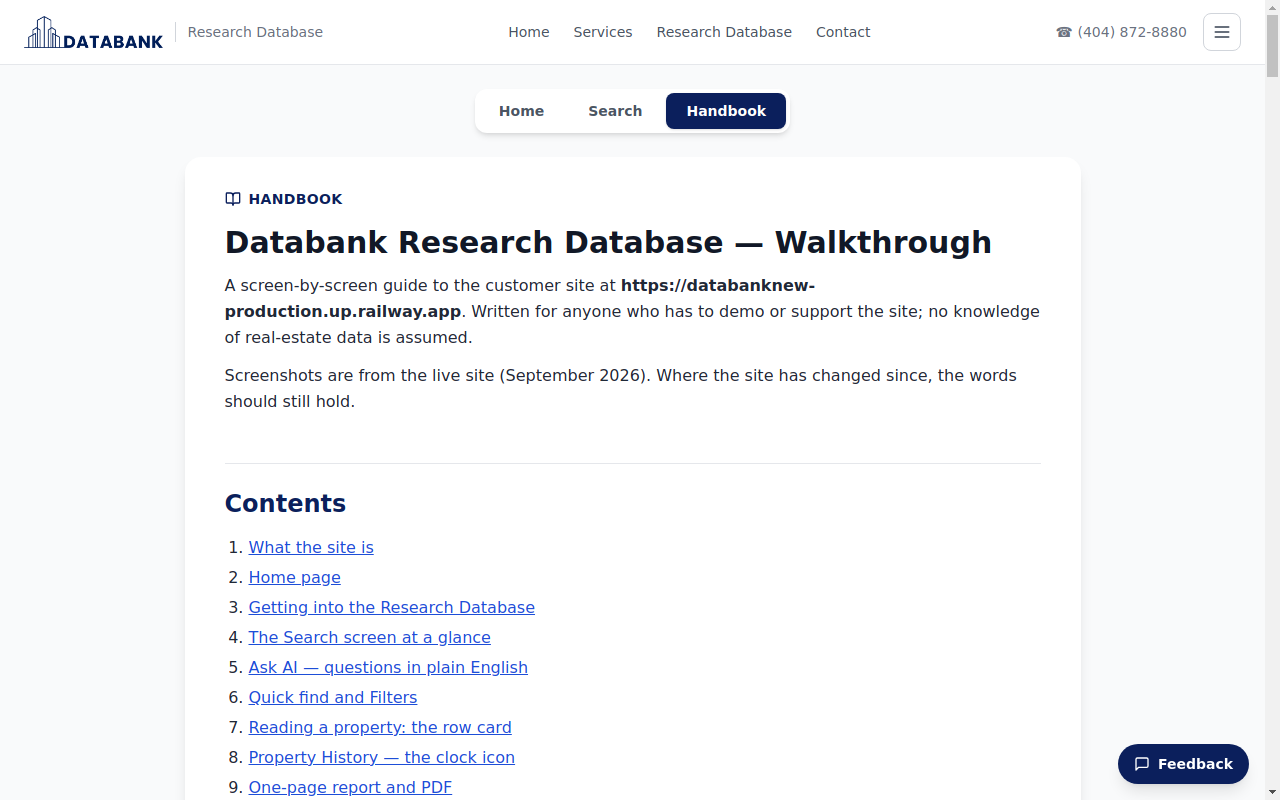
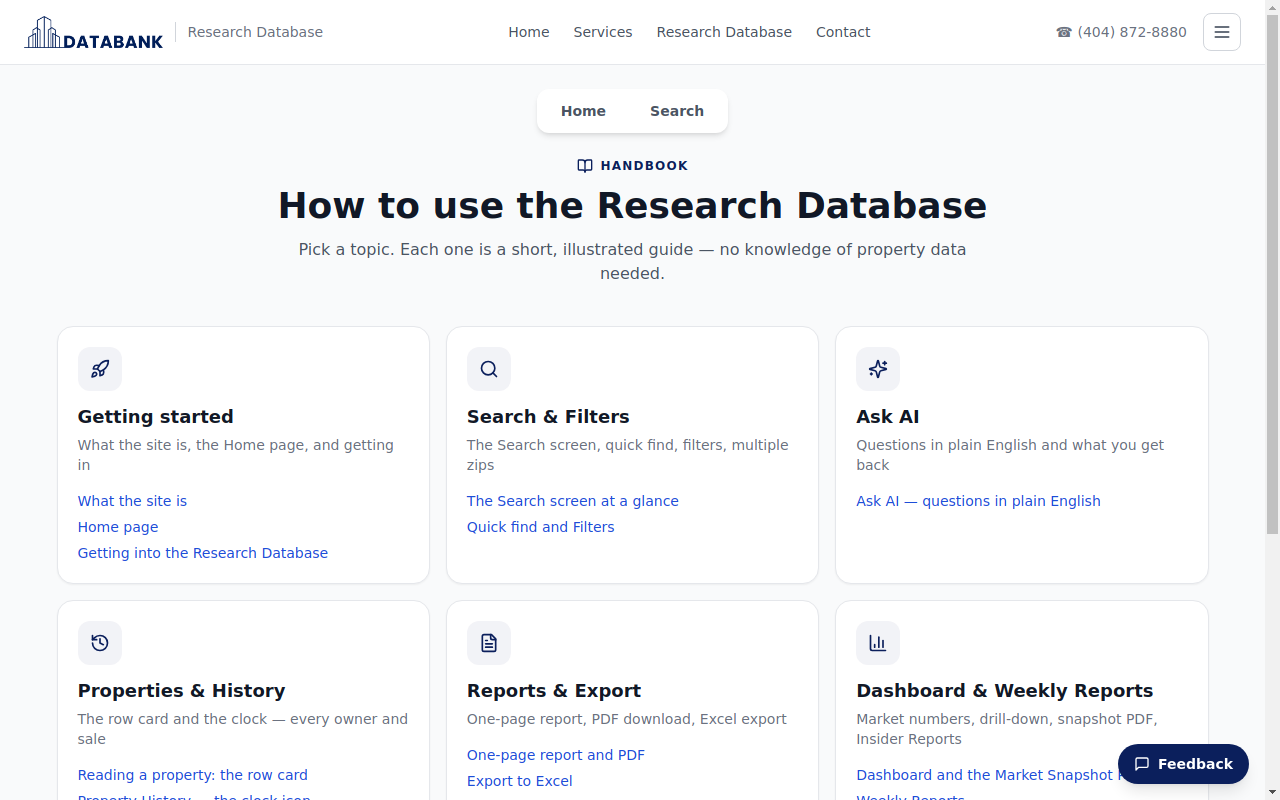
Handbook: topic cards hub + one-topic-at-a-time view with tabs, sidebar and prev/next; menu-only entry

diff --git a/frontend/src/Help.tsx b/frontend/src/Help.tsx
@@ -1,5 +1,5 @@
-import { useEffect, useState, type ReactNode } from 'react';
-import { BookOpen, Loader2 } from 'lucide-react';
+import { useEffect, useMemo, useState, type ReactNode } from 'react';
+import { BookOpen, Loader2, Rocket, Search, Sparkles, History, FileText, BarChart3, Settings, Presentation, HelpCircle, ChevronLeft, ChevronRight, ArrowLeft, type LucideIcon } from 'lucide-react';
 
 // Renders docs/walkthrough.md (served from /help/ via the public folder) as the
 // site's handbook. Small purpose-built markdown subset: headings, paragraphs,
@@ -51,7 +51,7 @@ function render(md: string): ReactNode[] {
     if (!s || s === '---') { i++; continue; }
     if (s.startsWith('# ')) { nodes.push(<h1 key={k++} className="text-3xl font-bold text-gray-900 mb-2">{inline(s.slice(2))}</h1>); i++; continue; }
     if (s.startsWith('## ')) { const t = s.slice(3); nodes.push(<h2 key={k++} id={slug(t)} className="text-2xl font-bold text-[#0b1f5c] mt-12 mb-4 pt-6 border-t border-gray-200 scroll-mt-20">{inline(t)}</h2>); i++; continue; }
-    if (s.startsWith('### ')) { const t = s.slice(4); nodes.push(<h3 key={k++} id={slug(t)} className="text-lg font-semibold text-gray-800 mt-8 mb-3 scroll-mt-20">{inline(t)}</h3>); i++; continue; }
+    if (s.startsWith('### ')) { const t = s.slice(4); nodes.push(<h3 key={k++} id={slug(t)} className="text-lg font-semibold text-gray-800 mt-8 mb-3 scroll-mt-40">{inline(t)}</h3>); i++; continue; }
     if (s.startsWith('![')) { nodes.push(img(s)); i++; continue; }
     if (s.startsWith('> ')) { nodes.push(<blockquote key={k++} className="my-4 border-l-4 border-[#0b1f5c] bg-blue-50 px-4 py-3 text-gray-800 italic">{inline(s.slice(2))}</blockquote>); i++; continue; }
     if (s.startsWith('<details')) {
@@ -112,9 +112,48 @@ function render(md: string): ReactNode[] {
   return nodes;
 }
 
-export function Help() {
+
+interface Section { num: number; title: string; slug: string; subs: { title: string; slug: string }[]; md: string }
+
+interface Topic { id: string; title: string; blurb: string; icon: LucideIcon; nums: number[] }
+
+const TOPICS: Topic[] = [
+  { id: 'getting-started', title: 'Getting started', blurb: 'What the site is, the Home page, and getting in', icon: Rocket, nums: [1, 2, 3] },
+  { id: 'search', title: 'Search & Filters', blurb: 'The Search screen, quick find, filters, multiple zips', icon: Search, nums: [4, 6] },
+  { id: 'ask-ai', title: 'Ask AI', blurb: 'Questions in plain English and what you get back', icon: Sparkles, nums: [5] },
+  { id: 'properties', title: 'Properties & History', blurb: 'The row card and the clock — every owner and sale', icon: History, nums: [7, 8] },
+  { id: 'reports', title: 'Reports & Export', blurb: 'One-page report, PDF download, Excel export', icon: FileText, nums: [9, 10] },
+  { id: 'dashboard', title: 'Dashboard & Weekly Reports', blurb: 'Market numbers, drill-down, snapshot PDF, Insider Reports', icon: BarChart3, nums: [11, 12] },
+  { id: 'admin', title: 'Feedback, Menu & Admin', blurb: 'Feedback button, ☰ menu, admin tools, photos, this handbook', icon: Settings, nums: [13, 14, 18] },
+  { id: 'demo', title: 'Demo guide', blurb: '10-minute script and what to steer away from', icon: Presentation, nums: [15, 16] },
+  { id: 'faq', title: 'FAQ', blurb: 'Short answers to the questions customers ask', icon: HelpCircle, nums: [17] },
+];
+
+function parseSections(md: string): Section[] {
+  const out: Section[] = [];
+  let cur: Section | null = null;
+  for (const line of md.split('\n')) {
+    const h2 = /^## (\d+)\. (.*)$/.exec(line);
+    if (h2) {
+      cur = { num: Number(h2[1]), title: h2[2], slug: slug(`${h2[1]}. ${h2[2]}`), subs: [], md: '' };
+      out.push(cur);
+      continue;
+    }
+    if (!cur) continue;
+    const h3 = /^### (.*)$/.exec(line);
+    if (h3) cur.subs.push({ title: h3[1].replace(/^"|"$/g, ''), slug: slug(h3[1]) });
+    cur.md += line + '\n';
+  }
+  return out;
+}
+
+const NAVY = '#0b1f5c';
+
+export function Help({ onExit }: { onExit?: () => void }) {
   const [md, setMd] = useState<string | null>(null);
   const [error, setError] = useState(false);
+  const [topicId, setTopicId] = useState<string | null>(null);
+  const [pendingSlug, setPendingSlug] = useState<string | null>(null);
 
   useEffect(() => {
     fetch(DOC_URL)
@@ -123,20 +162,140 @@ export function Help() {
       .catch(() => setError(true));
   }, []);
 
-  useEffect(() => {
-    if (!md) return;
-    const id = window.location.hash.replace(/^#help\/?/, '');
-    if (id) requestAnimationFrame(() => document.getElementById(id)?.scrollIntoView());
-  }, [md]);
+  const sections = useMemo(() => (md ? parseSections(md) : []), [md]);
+  const topics = useMemo(
+    () => TOPICS.map((t) => ({ ...t, sections: sections.filter((s) => t.nums.includes(s.num)) })).filter((t) => t.sections.length),
+    [sections],
+  );
 
-  return (
-    <div className="max-w-4xl mx-auto bg-white rounded-2xl shadow-lg px-6 sm:px-10 py-8">
-      <div className="flex items-center gap-2 text-sm text-[#0b1f5c] font-semibold uppercase tracking-wide mb-4">
-        <BookOpen className="w-4 h-4" /> Handbook
+  const open = (id: string | null, sectionSlug?: string) => {
+    setTopicId(id);
+    setPendingSlug(sectionSlug ?? null);
+    window.history.replaceState(null, '', id ? `#help/${sectionSlug ?? id}` : '#help');
+    if (!sectionSlug) window.scrollTo({ top: 0 });
+  };
+
+  // Deep link: #help/<topic-id> or #help/<section-slug>
+  useEffect(() => {
+    if (!topics.length) return;
+    const target = window.location.hash.replace(/^#help\/?/, '');
+    if (!target) return;
+    const byId = topics.find((t) => t.id === target);
+    if (byId) { setTopicId(byId.id); return; }
+    const byNum = /^(\d+)-/.exec(target);
+    const t = byNum && topics.find((t) => t.nums.includes(Number(byNum[1])));
+    if (t) { setTopicId(t.id); setPendingSlug(target); }
+  }, [topics]);
+
+  useEffect(() => {
+    if (!pendingSlug || !topicId) return;
+    requestAnimationFrame(() => document.getElementById(pendingSlug)?.scrollIntoView({ behavior: 'smooth' }));
+    setPendingSlug(null);
+  }, [pendingSlug, topicId]);
+
+  if (error) return <div className="max-w-4xl mx-auto bg-white rounded-2xl shadow p-8 text-gray-600">The handbook could not be loaded. Please refresh the page.</div>;
+  if (!md) return <div className="flex items-center justify-center gap-2 text-gray-500 py-20"><Loader2 className="w-4 h-4 animate-spin" /> Loading handbook…</div>;
+
+  const idx = topics.findIndex((t) => t.id === topicId);
+  const topic = idx >= 0 ? topics[idx] : null;
+
+  // ---- Hub: topic cards ----
+  if (!topic) {
+    return (
+      <div className="max-w-6xl mx-auto">
+        <div className="text-center mb-10">
+          <div className="inline-flex items-center gap-2 text-xs font-semibold uppercase tracking-widest text-[#0b1f5c] mb-3">
+            <BookOpen className="w-4 h-4" /> Handbook
+          </div>
+          <h1 className="text-3xl sm:text-4xl font-bold text-gray-900">How to use the Research Database</h1>
+          <p className="mt-3 text-gray-600 max-w-2xl mx-auto">
+            Pick a topic. Each one is a short, illustrated guide — no knowledge of property data needed.
+          </p>
+        </div>
+        <div className="grid gap-4 sm:grid-cols-2 lg:grid-cols-3">
+          {topics.map((t) => (
+            <div key={t.id} className="group bg-white rounded-2xl border border-gray-200 shadow-sm hover:shadow-md hover:border-[#0b1f5c]/40 transition-all p-5 flex flex-col">
+              <button onClick={() => open(t.id)} className="text-left">
+                <div className="w-11 h-11 rounded-xl bg-[#0b1f5c]/5 text-[#0b1f5c] flex items-center justify-center mb-3 group-hover:bg-[#0b1f5c] group-hover:text-white transition-colors">
+                  <t.icon className="w-5 h-5" />
+                </div>
+                <h2 className="text-lg font-bold text-gray-900">{t.title}</h2>
+                <p className="text-sm text-gray-500 mt-1">{t.blurb}</p>
+              </button>
+              <ul className="mt-4 space-y-1.5 text-sm">
+                {t.sections.map((s) => (
+                  <li key={s.slug}>
+                    <button onClick={() => open(t.id, s.slug)} className="text-blue-700 hover:underline text-left">{s.title}</button>
+                  </li>
+                ))}
+              </ul>
+            </div>
+          ))}
+        </div>
       </div>
-      {error && <p className="text-gray-600">The handbook could not be loaded. Please refresh the page.</p>}
-      {!md && !error && <div className="flex items-center gap-2 text-gray-500"><Loader2 className="w-4 h-4 animate-spin" /> Loading…</div>}
-      {md && <article>{render(md)}</article>}
+    );
+  }
+
+  // ---- Topic view: tabs + sidebar + one topic's content ----
+  const prev = idx > 0 ? topics[idx - 1] : null;
+  const next = idx < topics.length - 1 ? topics[idx + 1] : null;
+  return (
+    <div className="max-w-6xl mx-auto">
+      <div className="flex items-center gap-3 mb-4 text-sm">
+        <button onClick={() => open(null)} className="inline-flex items-center gap-1 text-gray-600 hover:text-[#0b1f5c]"><ArrowLeft className="w-4 h-4" /> All topics</button>
+        {onExit && <><span className="text-gray-300">|</span><button onClick={onExit} className="text-gray-600 hover:text-[#0b1f5c]">Back to Search</button></>}
+      </div>
+      <div className="flex gap-2 overflow-x-auto pb-3 mb-6 -mx-1 px-1">
+        {topics.map((t) => (
+          <button
+            key={t.id}
+            onClick={() => open(t.id)}
+            className={`shrink-0 inline-flex items-center gap-2 px-4 py-2 rounded-full text-sm font-semibold border transition-colors ${
+              t.id === topic.id ? 'bg-[#0b1f5c] text-white border-[#0b1f5c]' : 'bg-white text-gray-700 border-gray-200 hover:border-[#0b1f5c]/50'
+            }`}
+          >
+            <t.icon className="w-4 h-4" /> {t.title}
+          </button>
+        ))}
+      </div>
+      <div className="grid lg:grid-cols-[240px_1fr] gap-6 items-start">
+        <aside className="hidden lg:block sticky top-24 bg-white rounded-2xl border border-gray-200 p-4 text-sm">
+          <div className="text-xs font-semibold uppercase tracking-wide text-gray-400 mb-2">In this topic</div>
+          <ul className="space-y-1">
+            {topic.sections.map((s) => (
+              <li key={s.slug}>
+                <button onClick={() => open(topic.id, s.slug)} className="text-left font-medium text-gray-800 hover:text-[#0b1f5c]">{s.title}</button>
+                {s.subs.length > 0 && (
+                  <ul className="ml-3 mt-1 space-y-0.5 border-l border-gray-200 pl-3">
+                    {s.subs.map((sub) => (
+                      <li key={sub.slug}><button onClick={() => open(topic.id, sub.slug)} className="text-left text-gray-500 hover:text-[#0b1f5c]">{sub.title}</button></li>
+                    ))}
+                  </ul>
+                )}
+              </li>
+            ))}
+          </ul>
+        </aside>
+        <article className="bg-white rounded-2xl shadow-lg border border-gray-100 px-6 sm:px-10 py-8 min-w-0">
+          <div className="flex items-center gap-3 mb-2">
+            <div className="w-10 h-10 rounded-xl text-white flex items-center justify-center" style={{ background: NAVY }}><topic.icon className="w-5 h-5" /></div>
+            <div>
+              <div className="text-xs font-semibold uppercase tracking-wide text-gray-400">Topic {idx + 1} of {topics.length}</div>
+              <h1 className="text-2xl font-bold text-gray-900">{topic.title}</h1>
+            </div>
+          </div>
+          {topic.sections.map((s) => (
+            <section key={s.slug}>
+              <h2 id={s.slug} className="text-2xl font-bold text-[#0b1f5c] mt-10 mb-4 pt-6 border-t border-gray-200 scroll-mt-40">{s.title}</h2>
+              {render(s.md)}
+            </section>
+          ))}
+          <div className="mt-12 pt-6 border-t border-gray-200 flex justify-between gap-4 text-sm">
+            {prev ? <button onClick={() => open(prev.id)} className="inline-flex items-center gap-1 text-[#0b1f5c] font-semibold hover:underline"><ChevronLeft className="w-4 h-4" /> {prev.title}</button> : <span />}
+            {next ? <button onClick={() => open(next.id)} className="inline-flex items-center gap-1 text-[#0b1f5c] font-semibold hover:underline">{next.title} <ChevronRight className="w-4 h-4" /></button> : <span />}
+          </div>
+        </article>
+      </div>
     </div>
   );
 }

diff --git a/frontend/src/App.tsx b/frontend/src/App.tsx
@@ -419,7 +419,7 @@ function App() {
           <>
             <div className="flex justify-center mb-6">
               <div className="inline-flex rounded-xl bg-white shadow-md p-1 gap-1">
-                {(['home', 'search', 'help'] as const).map(v => (
+                {(['home', 'search'] as const).map(v => (
                   <button
                     key={v}
                     onClick={() => showPublic(v)}
@@ -427,12 +427,12 @@ function App() {
                       publicView === v ? 'bg-[#0b1f5c] text-white shadow' : 'text-gray-600 hover:bg-gray-100'
                     }`}
                   >
-                    {v === 'home' ? 'Home' : v === 'search' ? 'Search' : 'Handbook'}
+                    {v === 'home' ? 'Home' : 'Search'}
                   </button>
                 ))}
               </div>
             </div>
-            {publicView === 'home' ? <Home onStart={() => showPublic('search')} /> : publicView === 'help' ? <Help /> : <UserDashboard />}
+            {publicView === 'home' ? <Home onStart={() => showPublic('search')} /> : publicView === 'help' ? <Help onExit={() => showPublic('search')} /> : <UserDashboard />}
           </>
         ) : !isAdmin ? (
           isAdmin === null ? null : <AdminLogin onLogin={() => setIsAdmin(true)} />

diff --git a/docs/walkthrough.md b/docs/walkthrough.md
@@ -62,8 +62,8 @@ The public front page, aligned with databankinfo.com: hero, headline numbers, th
 **Latest Insider Week** market pulse (live from the data), Services, Valued Customers,
 About (Alan Wexler), and a Contact form that emails the team.
 
-- The **Home / Search / Handbook** toggle under the header switches between the public page,
-  the Research Database and this guide.
+- The **Home / Search** toggle under the header switches between the public page and the
+  Research Database.
 - **Search the database** (white button in the hero) and **Research Database** in the top nav
   do the same thing.
 - The ☰ button at top right opens the menu (see §14).
@@ -315,7 +315,7 @@ The ☰ button at top right:
 ![Menu](images/13-menu.png)
 
 - **Customer view** — the public site (what this guide covers).
-- **Handbook** — this guide, on the site itself (see §18).
+- **Handbook** — this guide as topic cards on the site itself (see §18).
 - **Admin login** — `https://databanknew-production.up.railway.app/admin`, password
   protected.
 - **databankinfo.com** — the existing Databank website.
@@ -388,16 +388,22 @@ bought.
 ## 18. Handbook on the site
 
 This guide is also published on the site itself, so Blake, customers and anyone demoing can
-read it without leaving the browser:
-
-`https://databanknew-production.up.railway.app/#help`
+read it without leaving the browser: ☰ menu → **Handbook**, or
+`https://databanknew-production.up.railway.app/#help`.
 
 ![Handbook](images/16-handbook.png)
 
-- Open it from the **Handbook** button in the Home / Search / Handbook toggle, or from the
-  ☰ menu → **Handbook**.
+- The Handbook opens as a set of **topic cards** (Getting started, Search & Filters, Ask AI,
+  Properties & History, Reports & Export, Dashboard & Weekly Reports, Feedback/Menu/Admin,
+  Demo guide, FAQ). Tap a card — or one of the links on it — to open that topic.
+- Inside a topic, the **topic tabs** across the top toggle between topics without going back
+  to the cards; the **In this topic** panel on the left jumps to a section; **Previous /
+  Next** at the bottom walk through the guide in order. Only one topic shows at a time.
+
+![Handbook topic](images/16b-handbook-topic.png)
+
 - It is the same document as `docs/walkthrough.md` in the repository, rendered live — any
   edit to the Markdown file shows up on the site at the next deploy, no separate copy to
-  maintain.
-- The **Contents** links jump within the page; a section can be linked directly, e.g.
+  maintain. Sections are grouped into topics by their number (§1–3 → Getting started, etc.).
+- A topic or section can be linked directly, e.g. `/#help/ask-ai` or
   `/#help/5-ask-ai--questions-in-plain-english`.
